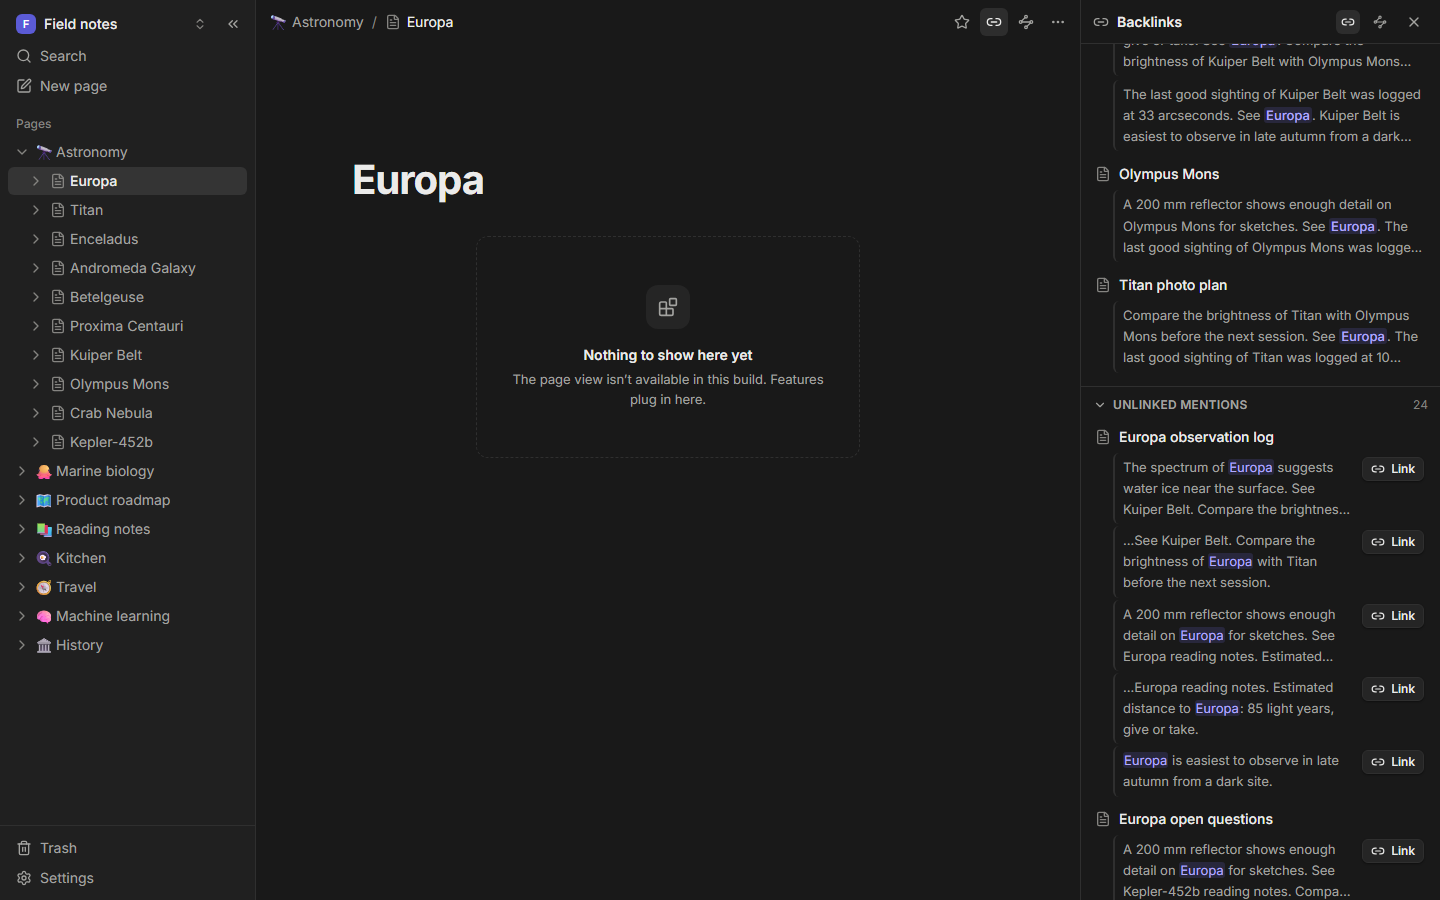
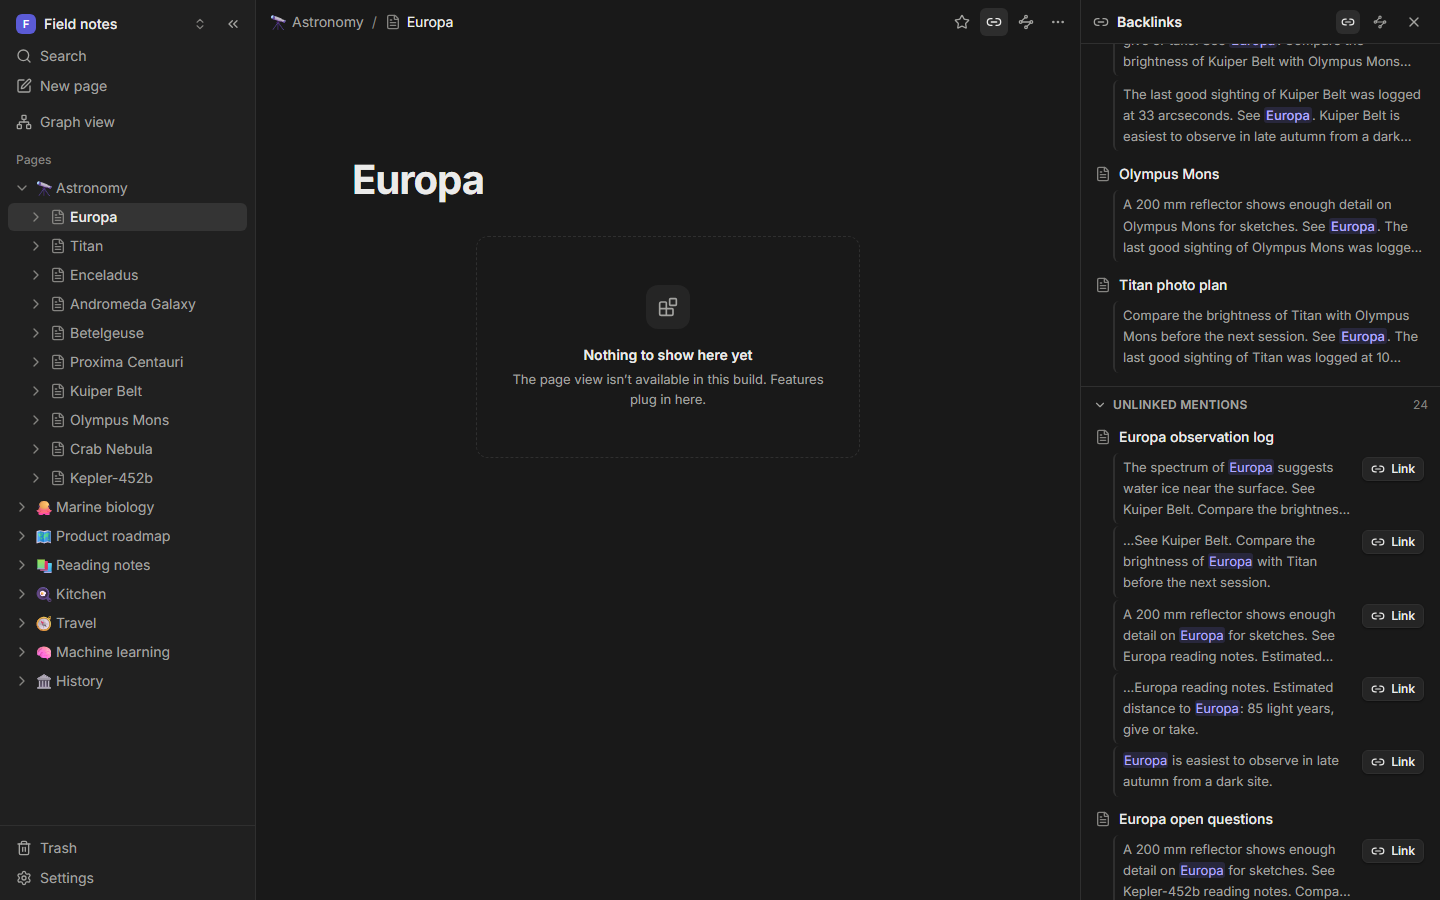
docs(search): final screenshots and handoff

Changed region(s): [[0.0, 0.1244, 0.125, 0.7778]]

diff --git a/HANDOFF/search.md b/HANDOFF/search.md
@@ -69,8 +69,8 @@ Tests: 11 Vitest files in `packages/search` (71 tests) and 1 in `apps/web/src/fe
 **`graph` feature**
 
 - `routes`: `/graph` (lazy; `/graph?focus=<pageId>` focuses a page). `pageSidePanels`:
-  `PANELS.localGraph` (no `when`, like backlinks). `commands`: `graph.open`
-  (`COMMANDS.openGraph`), `graph.showLocal`.
+  `PANELS.localGraph` (no `when`, like backlinks). `sidebarSections`: `graph` (a "Graph view"
+  entry at the top). `commands`: `graph.open` (`COMMANDS.openGraph`), `graph.showLocal`.
 
 **Settings keys**: workspace `backlinks.showFooter`; device `graph.options` (color mode, orphans,
 rows, depth), `graph.localDepth`, `search.recent.<workspaceId>`, `search.testHooks`.
